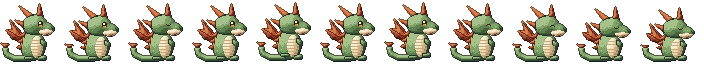
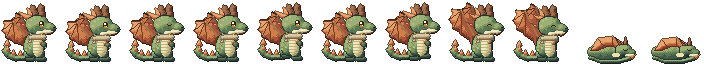
Wyrmling nach der Fantasy-Studie: getrennte Fluegelhaeute, Halstuch mit Bernstein, eigene Schlafpose
Erste Figur aus dem Character-Konzeptbuch (PR #326). Palette des Briefs,
zwei Fluegelhaeute mit Fingerknochen durch Freiraum vom Ruecken getrennt,
nach hinten gebogene Hoerner mit Kammfransen, Halstuch mit Kupferriemen und
Bernsteinanhaenger, Schlafen eingerollt mit Fluegel als Decke. Groesse,
Bogenformat und Fusszeile unveraendert; die anderen Boegen byteidentisch.

Tests: tools/reaction-preview/tests.sh gruen (855).

Claude-Session: https://claude.ai/code/session_01MzJQnTg9L1M6D2qVp5Yh1D

diff --git a/tools/character-art/characters.py b/tools/character-art/characters.py
@@ -177,41 +177,130 @@ def puffling(p=None):
     return s
 
 
+# Wyrmling nach der Fantasy-Studie vom 04.10. (character-conceptbook/briefs/wyrmling.md):
+# Startpalette #354C43 #607C57 #98AC72 #D2CA92 #875B43 #BC7D51 #D9A06A #EEE0B1.
+JADE = ['#2c4038', '#3f5a48', '#5a7652', '#7c955f', '#9cb075']
+JADE_SPOT = '#b2c084'
+WING = ['#7a3a26', '#a8583a', '#cf7e4c', '#e8a46c']
+HORN = ['#5a3a28', '#875b43', '#a8724a']
+CREAM_BELLY = ['#a8986a', '#cfc48e', '#e8dcac', '#f2e8c4']
+WRAP = ['#a69a7c', '#cfc3a2', '#eee0b1']
+
+
+def _wyrm_wing(s, shoulder, wrist, tips, back=False):
+    """Ein Fledermausfluegel als getrennte Flaeche: Oberarm zur Handwurzel, von dort Fingerknochen
+    zu den Spitzen, dazwischen die Haut in Bogen bis zurueck an den Koerper. Der hintere Fluegel
+    ist dunkler, damit beide getrennt lesbar bleiben."""
+    sx, sy = shoulder
+    wx, wy = wrist
+    pts = [(sx, sy), (wx, wy)]
+    for k, (tx, ty) in enumerate(tips):
+        pts.append((tx, ty))
+        nxt = tips[k + 1] if k + 1 < len(tips) else (sx - 2, sy + 9)
+        # Bogen der Haut zwischen zwei Fingern: nach innen eingezogen
+        pts.append(((tx + nxt[0]) / 2 + 2.5, (ty + nxt[1]) / 2 + 0.5))
+    pts.append((sx - 2, sy + 9))
+    m = s.poly(pts)
+    s.part(m, WING[:3] if back else WING, seed=31 if back else 32)
+    bone = '#4e2a1e' if back else '#6a3a28'
+    for tx, ty in tips:
+        s.paint(s.pen().line([(wx, wy), (tx, ty)]).m & m, bone)
+    s.paint(s.pen().line([(sx, sy), (wx, wy)], 2).m, HORN[1] if back else HORN[2])
+    s.px(wx, wy, '#d9a06a')
+    return m
+
+
 def wyrmling(p=None):
     s = Sprite(pose=p)
-    # Fluegel hinten, rostrot, mit Spannrippen
-    wing = s.poly([(22, 34), (10, 20), (13, 30), (6, 30), (12, 38), (22, 42)])
-    s.part(wing, RUST, seed=1)
-    for a, b in (((11, 22), (21, 35)), ((8, 30), (21, 38))):
-        s.paint(s.pen().line([a, b]).m & wing, '#5e2418')
-    # Schwanz, der sich am Boden ringelt
-    tail = s.pen().line([(30, 58), (14, 58), (6, 54), (5, 48)], 5).m
-    s.part(tail, DRAGON, seed=2)
-    s.part(s.poly([(5, 47), (1, 43), (8, 44)]), RUST)
-    # Koerper sitzend
-    body = s.ellipse(33, 46, 12, 14)
-    s.part(body, DRAGON, fur=0.25, seed=3)
-    s.part(s.ellipse(37, 47, 6, 11) & body, BELLY, line=False)
-    for y in range(40, 58, 3):
-        s.paint((s.yy == y) & s.ellipse(37, 47, 6, 11), '#c4a87e')
-    # Rueckenzacken
-    for x, y in ((24, 35), (22, 41), (21, 47)):
-        s.part(s.poly([(x, y - 3), (x - 4, y), (x, y + 2)]), RUST, line=False)
-    # Beine und Arme
-    s.part(s.ellipse(29, 58 - s.pose.foot_lift(0), 5, 2.5) | s.ellipse(42, 58 - s.pose.foot_lift(1), 4.5, 2.5), DRAGON)
-    s.part(s.ellipse(43, 43, 2.5, 4.5, rot=-0.5), DRAGON)
-    # Kopf mit Schnauze nach rechts
-    # Hoerner und Kopfzacken hinter dem Kopf
-    s.part(s.poly([(28, 18), (19, 6), (33, 15)]), RUST)
-    s.part(s.poly([(37, 15), (39, 4), (42, 16)]), RUST)
-    s.part(s.poly([(24, 22), (15, 20), (24, 28)]), RUST)
-    head = s.ellipse(35, 25, 12, 10.5) | s.ellipse(46, 29, 8, 6)
-    s.part(head, DRAGON, fur=0.2, seed=4)
-    s.part(s.ellipse(46, 32, 7, 2.8) & head, BELLY, line=False)
-    s.eye(38, 21, 5, 6, iris='#3a2008', low='#d08a1e')
-    s.px(52, 28, '#1e2a14'), s.px(51, 27, '#1e2a14')
-    s.px(46, 34, '#5a3a2a'), s.px(47, 34, '#5a3a2a'), s.px(48, 33, '#5a3a2a')
-    s.px(43, 29, '#e89a7a'), s.px(44, 29, '#e89a7a')
+    if s.pose.eyes == 'closed' and getattr(s.pose, 'sleep', False):
+        return _wyrmling_asleep(s)
+    joy = s.pose.joy
+    # Fluegel hinter dem Koerper, durch Freiraum vom Ruecken getrennt
+    if joy:
+        # gestreckt: Fluegel als Balance weit nach oben geoeffnet
+        _wyrm_wing(s, (31, 33), (24, 6), [(19, 3), (14, 9), (13, 17)], back=True)
+        _wyrm_wing(s, (26, 35), (13, 10), [(4, 9), (1, 19), (5, 28), (13, 34)])
+    else:
+        _wyrm_wing(s, (29, 34), (21, 16), [(16, 13), (12, 19), (13, 27)], back=True)
+        _wyrm_wing(s, (25, 36), (13, 21), [(4, 21), (2, 30), (6, 37), (14, 42)])
+    # Schwanz: am Boden nach links, Spitze hochgebogen, kleine Kammzacken
+    tail = s.pen().line([(28, 57), (16, 58), (8, 55), (4, 49)], 5).m | s.pen().line([(5, 49), (6, 45)], 3).m
+    s.part(tail, JADE, seed=2)
+    for x, y in ((20, 54), (13, 53), (7, 49)):
+        s.part(s.poly([(x - 2, y + 1), (x, y - 3), (x + 2, y + 1)]), WING[1:], line=False)
+    s.part(s.poly([(4, 45), (7, 40), (9, 45)]), WING[1:])
+    # Hinterbeine (vor dem Schwanz)
+    for i, (x, w) in enumerate(((29, 5), (40, 4.5))):
+        lift = s.pose.foot_lift(i)
+        s.part(s.ellipse(x, 54 - lift, w, 5), JADE, seed=5 + i)
+        s.part(s.ellipse(x + 1, 59 - lift, w + 1, 2.2), JADE[:3])
+        for k in (0, 2):
+            s.px(x + int(w) - 1 + k, 60 - lift, '#2c4038')
+    # Rumpf: aufrecht, birnenfoermig, mit hellem Bauch nach vorn
+    body = s.ellipse(34, 45, 10.5, 12.5)
+    s.part(body, JADE, fur=0.2, seed=3)
+    belly = s.ellipse(38, 47, 5.5, 10) & body
+    s.part(belly, CREAM_BELLY, line=False)
+    for y in range(41, 57, 3):
+        s.paint(belly & (s.yy == y), '#bfb07e')
+    # Flecken auf den Schuppen: wenige grosse statt Rauschen
+    for x, y in ((27, 42), (30, 48), (26, 50), (31, 39)):
+        s.paint(s.ellipse(x, y, 1.6, 1.2) & body & ~belly, JADE_SPOT)
+    # Arm, vom Rumpf durch die Trennlinie abgesetzt
+    arm_y = 40 if joy else 44
+    arm = s.ellipse(43, arm_y, 2.6, 4.6, rot=-0.6 if not joy else 0.6)
+    s.part(arm, JADE, seed=9)
+    s.px(45, arm_y + 3, '#ded6b0') if not joy else s.px(45, arm_y - 4, '#ded6b0')
+    # Kopf: gross, rund, Schnauze nach rechts
+    # Kammfransen hinter dem Kopf: drei breite rostrote Blaetter
+    for (x0, y0), (x1, y1), (x2, y2) in (((25, 18), (19, 12), (31, 16)), ((24, 23), (17, 21), (26, 28)),
+                                         ((29, 15), (27, 8), (35, 15))):
+        s.part(s.poly([(x0, y0), (x1, y1), (x2, y2), ((x0 + x2) / 2 + 1, (y0 + y2) / 2 + 2)]), WING[1:])
+    # Zwei kurze, nach hinten gebogene Hoerner mit runder Spitze
+    s.part(s.poly([(33, 17), (30, 9), (31, 5), (34, 6), (38, 15)]), HORN)
+    s.part(s.poly([(39, 16), (38, 7), (40, 4), (43, 6), (44, 16)]), HORN)
+    head = s.ellipse(37, 25, 11.5, 10) | s.ellipse(48, 28.5, 7.5, 5.5)
+    s.part(head, JADE, fur=0.15, seed=4, lift=0.08)
+    s.part((s.ellipse(47, 32, 6.5, 2) | s.ellipse(40, 33, 4, 2.5)) & head, CREAM_BELLY, line=False)
+    for x, y in ((31, 20), (34, 18), (29, 25)):
+        s.paint(s.ellipse(x, y, 1.3, 1) & head, JADE_SPOT)
+    # Halstuch mit kupfernem Riemen und mattem Bernsteinanhaenger
+    wrap = s.ellipse(37, 37, 9.5, 3) | s.poly([(30, 37), (27, 43), (31, 42)])
+    s.part(wrap, ['#9a8c6c', '#c8b88e', '#dccb9e'])
+    s.paint(s.pen().line([(28, 39), (45, 39)]).m & s.ellipse(37, 38, 10, 4), '#875b43')
+    s.part(s.ellipse(41, 42, 2, 2.2), ['#875b43', '#bc7d51', '#d9a06a'], line=False)
+    s.px(40, 41, '#f4d494')
+    # Gesicht
+    s.eye(39, 21, 5, 6, iris='#3a2008', low='#d08a1e')
+    s.px(54, 27, '#1e2a14'), s.px(53, 27, '#1e2a14')
+    if s.pose.eyes == 'happy':
+        s.paint(s.pen().line([(46, 33), (49, 34), (52, 32)]).m, '#5a3a2a')
+    else:
+        s.paint(s.pen().line([(47, 33), (50, 33), (52, 32)]).m, '#5a3a2a')
+    s.px(44, 29, '#e89a7a'), s.px(45, 29, '#e89a7a')
+    s.outline()
+    return s
+
+
+def _wyrmling_asleep(s):
+    """Eingerollt schlafend wie auf der Tafel: Koerper liegend, Fluegel als Decke, Schwanz ums
+    Gesicht gelegt. Eigener Bodenanker - die Fuesse stehen nicht, der Bauch liegt auf."""
+    body = s.ellipse(31, 52, 19, 9)
+    s.part(body, JADE, fur=0.2, seed=13)
+    wing = s.poly([(14, 50), (22, 38), (36, 36), (48, 44), (44, 48), (32, 46), (22, 50)])
+    s.part(wing, WING, seed=14)
+    for b in (((22, 39), (28, 47)), ((36, 37), (36, 46))):
+        s.paint(s.pen().line(b).m & wing, '#6a3a28')
+    tail = s.pen().line([(13, 56), (24, 60), (44, 60), (54, 57)], 4).m
+    s.part(tail, JADE, seed=15)
+    s.part(s.poly([(54, 55), (59, 54), (56, 58)]), WING[1:])
+    head = s.ellipse(47, 50, 8.5, 6.5) | s.ellipse(54, 53, 5, 4)
+    s.part(head, JADE, seed=16, lift=0.08)
+    s.part(s.poly([(43, 45), (39, 38), (46, 44)]), HORN)
+    s.part(s.poly([(48, 44), (49, 37), (51, 45)]), HORN)
+    s.part(s.ellipse(54, 55.5, 4.5, 1.6) & head, CREAM_BELLY, line=False)
+    s.eye(47, 48, 5, 4)          # geschlossen (Pose.eyes == 'closed')
+    s.paint(s.ellipse(40, 55, 4, 2) & body, WRAP[2])
     s.outline()
     return s
 

diff --git a/tools/character-art/sheets.py b/tools/character-art/sheets.py
@@ -17,6 +17,7 @@ SPECIES = {
     'puffling': C.puffling, 'wyrmling': C.wyrmling, 'hootlet': C.hootlet,
 }
 FOOT = 62   # erste Zeile unter den Fuessen
+OWN_SLEEP = {C.wyrmling}
 
 
 def lifted(img, n):
@@ -49,7 +50,8 @@ def curled(img):
 def frames(fn):
     walk = [fn(Pose(step=k)) for k in range(4)]
     joy = fn(Pose(eyes='happy', joy=True))
-    sleep = curled(fn(Pose(eyes='closed')).image())
+    # Wer eine eigene Schlafpose hat (Wyrmling), zeichnet sie selbst; die anderen sinken zusammen.
+    sleep = fn(Pose(eyes='closed', sleep=True)).image() if fn in OWN_SLEEP else curled(fn(Pose(eyes='closed')).image())
     idle = fn(Pose()).image()
     return [
         idle,

diff --git a/tools/character-art/sprite.py b/tools/character-art/sprite.py
@@ -26,8 +26,8 @@ class Pose:
     """Was eine Figur gerade tut: Augen offen/zu/froh, welcher Fuss oben ist (Laufphase 0..3,
     -1 = stehen), Freude (Arme, Fluegel, Ohren hoch)."""
 
-    def __init__(self, eyes='open', step=-1, joy=False):
-        self.eyes, self.step, self.joy = eyes, step, joy
+    def __init__(self, eyes='open', step=-1, joy=False, sleep=False):
+        self.eyes, self.step, self.joy, self.sleep = eyes, step, joy, sleep
 
     def foot_lift(self, i):
         """Wie weit Fuss [i] (0 = links, 1 = rechts) gerade gehoben ist."""

diff --git a/EVOLUTION.md b/EVOLUTION.md
@@ -669,6 +669,31 @@ sein:
 Die Historie darf nicht zu einer bloßen Commit-Liste werden. Sie soll erklären, warum sich Itoeva
 verändert hat, welche Identität dabei geschützt wurde und welche Unsicherheit weiterhin besteht.
 
+### 2026-10-04 - Wyrmling nach der Fantasy-Studie
+
+**Anlass:** Character-Konzeptbuch (`docs/concept-art/character-conceptbook/`, PR #326) mit
+fantasyhafteren Varianten der sechs Wesen. Auftrag: genau eine Figur vorsichtig weiterentwickeln.
+Gewaehlt Wyrmling, weil seine bisherige Fassung am schlechtesten las: ein grosser, zackiger Fluegel
+verschmolz mit Ruecken und Hoernern, Arm und Rumpf waren nicht getrennt.
+
+**Uebernommen aus der Studie:** Startpalette des Briefs (Jade #354C43..#98AC72, Rost #875B43..#D9A06A,
+Creme #D2CA92/#EEE0B1); zwei getrennte Fluegelhaeute mit Handwurzel und Fingerknochen, durch
+Freiraum vom Ruecken abgesetzt, der hintere dunkler; kurze, nach hinten gebogene Hoerner mit
+rostroten Kammfransen; kurzes Halstuch mit kupfernem Riemen und mattem Bernsteinanhaenger;
+Kammzacken auf dem Schwanz; eigene Schlafpose (eingerollt, Fluegel als Decke) statt der
+zusammengesunkenen Sitzfigur; Freude als Strecken mit weit geoeffneten Fluegeln.
+
+**Vereinfacht (Lesbarkeit/Technik):** Schuppenmuster auf wenige grosse Flecken; Halstuch ohne
+Faltenwurf; keine Krallen; nur die rechts blickende Ansicht (das Spiel spiegelt beim Gehen nach
+links), keine Front- und Rueckansicht; das Tragen eines Buendels hat kein eigenes Bild, weil das
+Bildwahl-System (`CreatureSprites`) dafuer keinen Zustand kennt. Groesse unveraendert (nicht auf die
+relative 68 der Studie skaliert), Bodenzeile und Bogenformat gleich.
+
+**Was gleich bleibt:** Name, Rolle, Entscheidungslogik, Ablaeufe; die anderen fuenf Boegen sind
+byteidentisch. **UNVERIFIED:** am Geraet ungeprueft. **Ruecksetzweg:** alten Bogen
+`assets/creatures/wyrmling.png` zurueckholen. **Tests:** `bash tools/reaction-preview/tests.sh`
+gruen (`CreatureSpritesTest` prueft Bogen, Bildzahl und Fusszeile).
+
 ### 2026-10-04 - Itoeva 2: Gemalte Orte mit Tiefe
 
 **Anlass:** Rueckmeldung zur Farbpalette auf der LED-Kulisse: zu grob, zu flach - gewuenscht sind

diff --git a/tools/character-art/README.md b/tools/character-art/README.md
@@ -21,3 +21,10 @@ Die Identitaeten (Namen, Rollen, Entscheidungslogik) bleiben unveraendert.
 (11 Bilder: Ruhe, Ruhe eingeatmet, Blinzeln, 4 x Laufen, 2 x Freude, 2 x Schlafen; Reihenfolge
 wie in `CreatureSprites.kt`). Die Figuren stehen dort auf Zeile 61. Welches Bild gezeigt wird,
 entscheidet `CreatureSprites.look` aus der groben Pose der bestehenden Ablaeufe.
+
+## Fantasy-Varianten (Character-Konzeptbuch, seit 04.10.)
+
+Die Figuren werden einzeln nach `docs/concept-art/character-conceptbook/` weiterentwickelt, je eine
+Figur pro Schritt und erst nach Rueckmeldung die naechste. Bisher: **Wyrmling** (Palette des
+Briefs, getrennte Fluegelhaeute, Halstuch mit Bernstein, eigene Schlafpose). Eine eigene
+Schlafpose meldet eine Figur in `sheets.OWN_SLEEP` an; die anderen sinken zusammen (`curled`).
